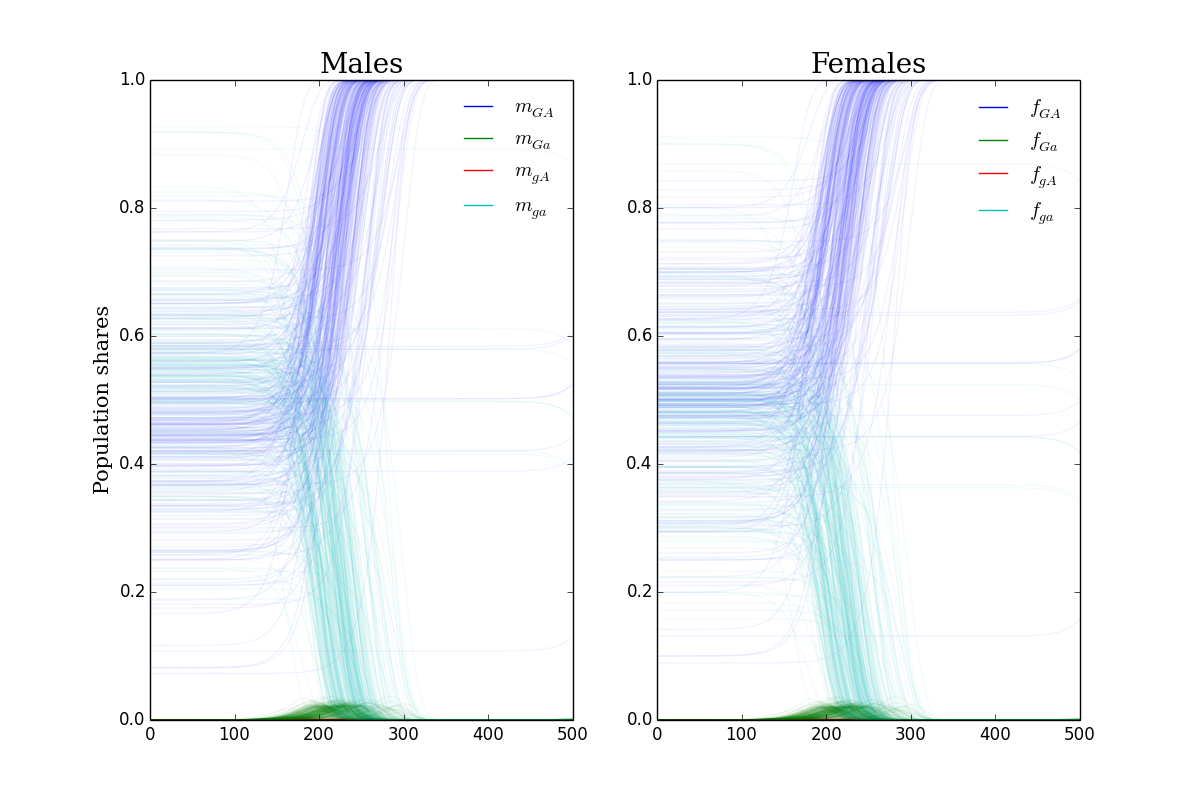
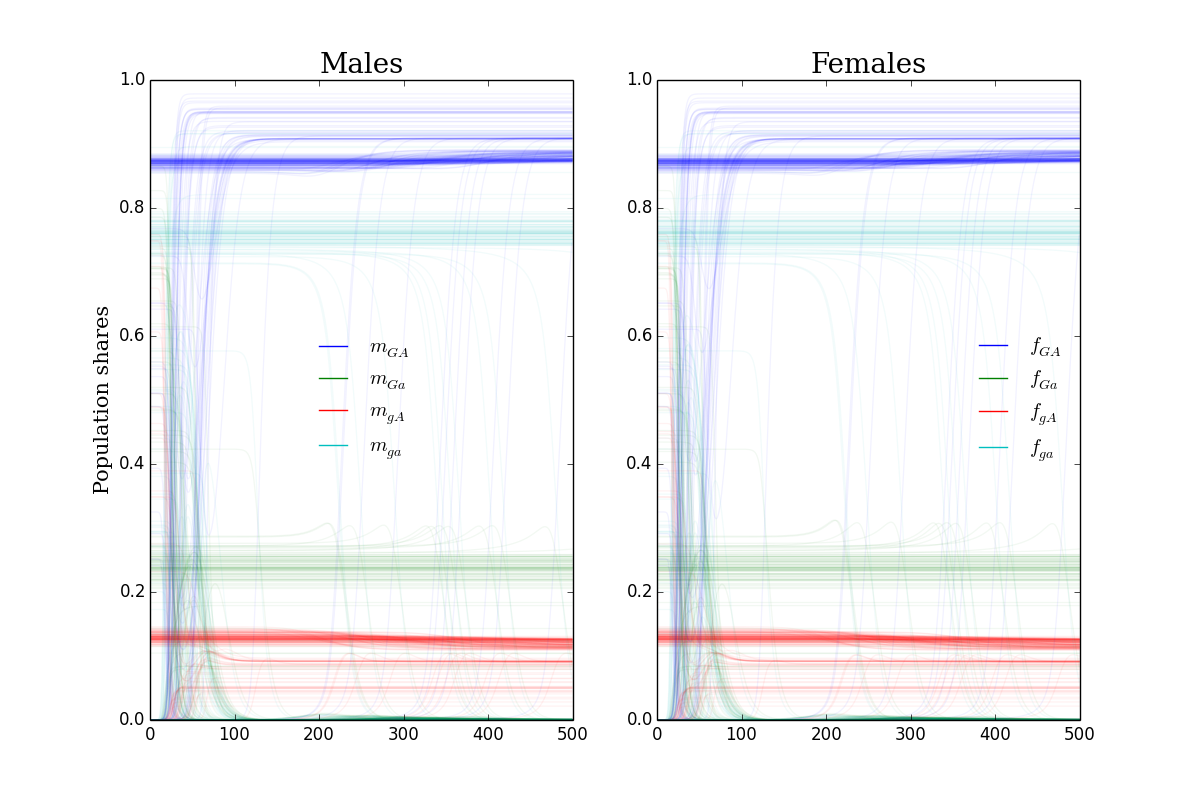
Added an example for imperfect screening.

diff --git a/examples/random-signaling/imperfect_screening_trajectories_2.py b/examples/random-signaling/imperfect_screening_trajectories_2.py
@@ -1,0 +1,82 @@
+import sys
+sys.path.append('../../')
+
+import numpy as np
+import matplotlib.pyplot as plt
+
+from package import model
+
+# females send random signals, but males screen imperfectly
+eps = 3e-1
+params = {'dA': 0.5, 'da': 0.5, 'eA': 1.0 - eps, 'ea': 1.0 - eps,
+          'PiaA': 6.0, 'PiAA': 5.0, 'Piaa': 4.0, 'PiAa': 3.0}
+
+# create an array of initial guesses for root finder
+N = 250
+prng = np.random.RandomState(42)
+initial_males = prng.dirichlet(np.ones(4), size=N)
+initial_females = initial_males
+initial_guesses = np.hstack((initial_males, initial_females))
+
+# create an instance of the model
+example = model.Model(params=params,
+                      solver_kwargs={'tol': 1e-12})
+
+fig, axes = plt.subplots(1, 2, figsize=(12, 8))
+
+for i in range(N):
+
+    # extract initial guess
+    example.initial_guess = initial_guesses[i]
+
+    # solve the nonlinear system
+    tmp_result = example.steady_state
+
+    if tmp_result.success and np.isclose(tmp_result.fun, 0, atol=1e-6):
+
+        # extract initial guess
+        example.initial_guess = tmp_result.x
+        tmp_traj = example.simulate(initial_condition=example.initial_guess,
+                                    T=500)
+
+        # male allele trajectories
+        m_GA, = axes[0].plot(tmp_traj[0], color='b', alpha=0.05)
+        m_Ga, = axes[0].plot(tmp_traj[1], color='g', alpha=0.05)
+        m_gA, = axes[0].plot(tmp_traj[2], color='r', alpha=0.05)
+        m_ga, = axes[0].plot(tmp_traj[3], color='c', alpha=0.05)
+
+        # female allele trajectories
+        f_GA, = axes[1].plot(tmp_traj[4], color='b', alpha=0.05)
+        f_Ga, = axes[1].plot(tmp_traj[5], color='g', alpha=0.05)
+        f_gA, = axes[1].plot(tmp_traj[6], color='r', alpha=0.05)
+        f_ga, = axes[1].plot(tmp_traj[7], color='c', alpha=0.05)
+
+    else:
+        continue
+
+    print "Done with %i out of %i." % (i, N)
+
+# axes, labels, title, legend, etc
+axes[0].set_ylim(0, 1)
+axes[0].set_ylabel('Population shares', family='serif', fontsize=15)
+axes[0].set_title('Males', family='serif', fontsize=20)
+legend_0 = axes[0].legend([m_GA, m_Ga, m_gA, m_ga],
+                          [r'$m_{GA}$', r'$m_{Ga}$', r'$m_{gA}$', r'$m_{ga}$'],
+                          loc=0, frameon=False)
+
+# want legend lines to be solid!
+for line_obj in legend_0.legendHandles:
+    line_obj.set_alpha(1.0)
+
+axes[1].set_ylim(0, 1)
+axes[1].set_title('Females', family='serif', fontsize=20)
+legend_1 = axes[1].legend([f_GA, f_Ga, f_gA, f_ga],
+                          [r'$f_{GA}$', r'$f_{Ga}$', r'$f_{gA}$', r'$f_{ga}$'],
+                          loc=0, frameon=False)
+
+# want legend lines to be solid!
+for line_obj in legend_1.legendHandles:
+    line_obj.set_alpha(1.0)
+
+fig.savefig('../../images/random-signaling/random_signaling_trajectories_2.png')
+plt.show()

diff --git a/examples/random-signaling/imperfect_screening_trajectories_1.py b/examples/random-signaling/imperfect_screening_trajectories_1.py
@@ -1,0 +1,71 @@
+import sys
+sys.path.append('../../')
+
+import numpy as np
+import matplotlib.pyplot as plt
+
+from package import model
+
+# females send random signals, but males screen imperfectly
+#eps = 8.0e-1
+params = {'dA': 0.5, 'da': 0.5, 'eA': 0.41666667, 'ea': 0.5,
+          'PiaA': 6.0, 'PiAA': 5.0, 'Piaa': 4.0, 'PiAa': 3.0}
+
+# create an array of initial guesses for root finder
+N = 500
+prng = np.random.RandomState(42)
+initial_males = prng.dirichlet(np.ones(4), size=N)
+initial_females = initial_males
+initial_guesses = np.hstack((initial_males, initial_females))
+
+# create an instance of the model
+example = model.Model(params=params,
+                      solver_kwargs={'tol': 1e-12})
+
+fig, axes = plt.subplots(1, 2, figsize=(12, 8))
+
+for i in range(N):
+
+    # extract initial guess
+    example.initial_guess = initial_guesses[i]
+    tmp_traj = example.simulate(initial_condition=example.initial_guess, T=500)
+
+    # male allele trajectories
+    m_GA, = axes[0].plot(tmp_traj[0], color='b', alpha=0.05)
+    m_Ga, = axes[0].plot(tmp_traj[1], color='g', alpha=0.05)
+    m_gA, = axes[0].plot(tmp_traj[2], color='r', alpha=0.05)
+    m_ga, = axes[0].plot(tmp_traj[3], color='c', alpha=0.05)
+
+    # female allele trajectories
+    f_GA, = axes[1].plot(tmp_traj[4], color='b', alpha=0.05)
+    f_Ga, = axes[1].plot(tmp_traj[5], color='g', alpha=0.05)
+    f_gA, = axes[1].plot(tmp_traj[6], color='r', alpha=0.05)
+    f_ga, = axes[1].plot(tmp_traj[7], color='c', alpha=0.05)
+
+    print "Done with %i out of %i." % (i, N)
+
+# axes, labels, title, legend, etc
+axes[0].set_ylim(0, 1)
+axes[0].set_ylabel('Population shares', family='serif', fontsize=15)
+axes[0].set_title('Males', family='serif', fontsize=20)
+legend_0 = axes[0].legend([m_GA, m_Ga, m_gA, m_ga],
+                          [r'$m_{GA}$', r'$m_{Ga}$', r'$m_{gA}$', r'$m_{ga}$'],
+                          loc=0, frameon=False)
+
+# want legend lines to be solid!
+for line_obj in legend_0.legendHandles:
+    line_obj.set_alpha(1.0)
+
+axes[1].set_ylim(0, 1)
+axes[1].set_title('Females', family='serif', fontsize=20)
+legend_1 = axes[1].legend([f_GA, f_Ga, f_gA, f_ga],
+                          [r'$f_{GA}$', r'$f_{Ga}$', r'$f_{gA}$', r'$f_{ga}$'],
+                          loc=0, frameon=False)
+
+# want legend lines to be solid!
+for line_obj in legend_1.legendHandles:
+    line_obj.set_alpha(1.0)
+
+# save and display the figure
+fig.savefig('../../images/random-signaling/imperfect_screening_trajectories_1.png')
+plt.show()

diff --git a/examples/random-signaling/imperfect_screening_equilibria.py b/examples/random-signaling/imperfect_screening_equilibria.py
@@ -1,0 +1,66 @@
+import sys
+sys.path.append('../../')
+
+import numpy as np
+import matplotlib.pyplot as plt
+
+from package import model
+
+# females send random signals, but males screen with imperfect screening
+eps = 1e-3
+params = {'dA': 0.5, 'da': 0.5, 'eA': 1.0 - eps, 'ea': 1.0 - eps,
+          'PiaA': 6.0, 'PiAA': 5.0, 'Piaa': 4.0, 'PiAa': 3.0}
+
+# create an array of initial guesses for root finder
+N = 100
+prng = np.random.RandomState(42)
+initial_males = prng.dirichlet(np.ones(4), size=N)
+initial_females = initial_males
+initial_guesses = np.hstack((initial_males, initial_females))
+
+# create an instance of the model
+example = model.Model(params=params,
+                      solver_kwargs={'tol': 1e-12})
+
+# initialize a storage container
+steady_states = np.empty((N, 8))
+
+# compute the steady state of the model for different initial guesses
+fig, ax = plt.subplots()
+ind = np.arange(-0.5, 7.5)
+
+for i in range(N):
+
+    # extract initial guess
+    example.initial_guess = initial_guesses[i]
+
+    # solve the nonlinear system
+    tmp_result = example.steady_state
+
+    if tmp_result.success and np.isclose(tmp_result.fun, 0.0, atol=1e-6):
+        steady_states[i] = tmp_result.x
+        bar_list = ax.bar(left=ind, height=tmp_result.x, width=1.0, alpha=0.05)
+
+        # Set different color for Altruistic genotypes
+        bar_list[0].set_color('r')
+        bar_list[2].set_color('r')
+        bar_list[4].set_color('r')
+        bar_list[6].set_color('r')
+
+    else:
+        steady_states[i] = np.nan
+
+    print 'Done with %i out of %i.' % (i, N)
+
+# axes , labels, title, etc
+ax.set_xlim(-1.0, 8.5)
+ax.set_xticks(np.arange(8))
+male_labels = ('$m_{GA}$', '$m_{Ga}$', '$m_{gA}$', '$m_{ga}$')
+female_labels = ('$f_{GA}$', '$f_{Ga}$', '$f_{gA}$', '$f_{ga}$')
+ax.set_xticklabels(male_labels + female_labels)
+ax.set_ylim(0, 1)
+ax.set_title('Putative equilibrium population shares', fontsize=20)
+
+# save and display the figure
+fig.savefig('../../images/random-signaling/imperfect_screening_equilibria.png')
+plt.show()
